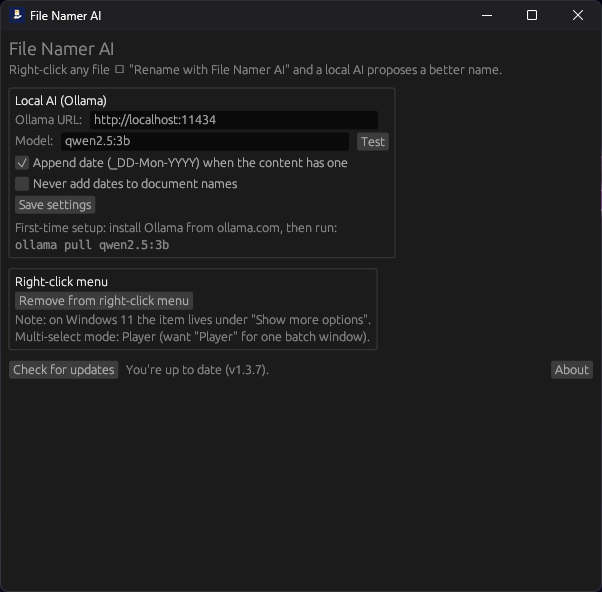
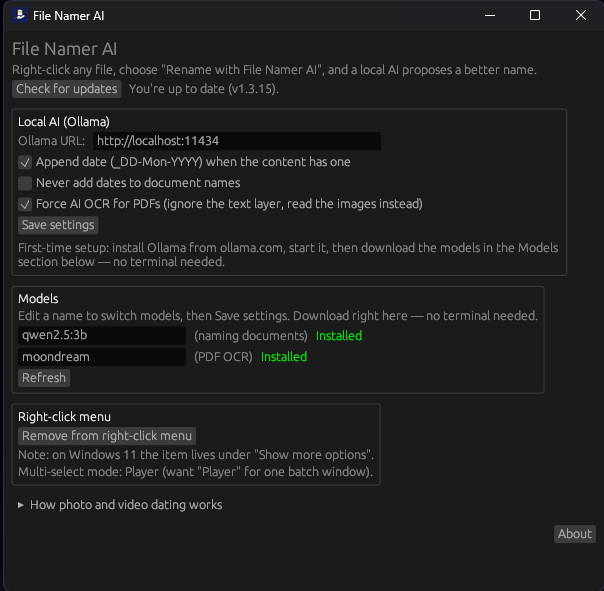
README: update screenshot to current Settings layout
- New screenshot shows v1.3.15 Settings: update check at the
  top, Local AI options, Models section with in-app downloads
  and Installed status, right-click menu, dating explainer
- Caption + alt text updated to match

diff --git a/README.md b/README.md
@@ -17,8 +17,8 @@ Distributed as an installer, no console window. Runs as a normal user
 ## Screenshot
 
 <p align="center">
-  <img src="assets/screenshot.png" alt="The File Namer AI settings window: local Ollama connection, model picker, and naming options" width="520">
-  <br><em>The settings window — point it at your local Ollama, pick a model, done.</em>
+  <img src="assets/screenshot.png" alt="The File Namer AI settings window: update check, Ollama connection, in-app model downloads, and naming options" width="520">
+  <br><em>The settings window — updates at the top, models downloadable in-app, done.</em>
 </p>
 
 ## Download
